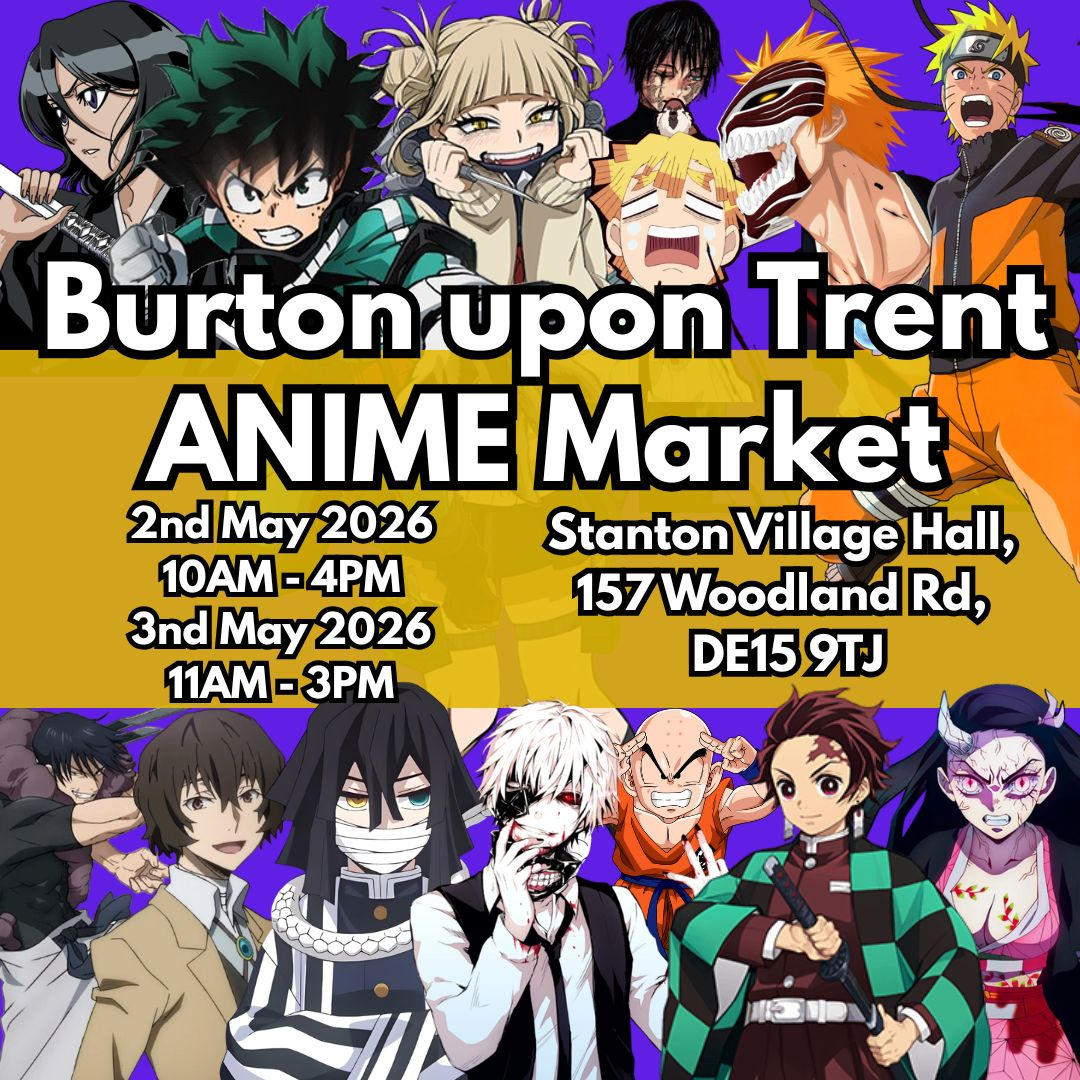
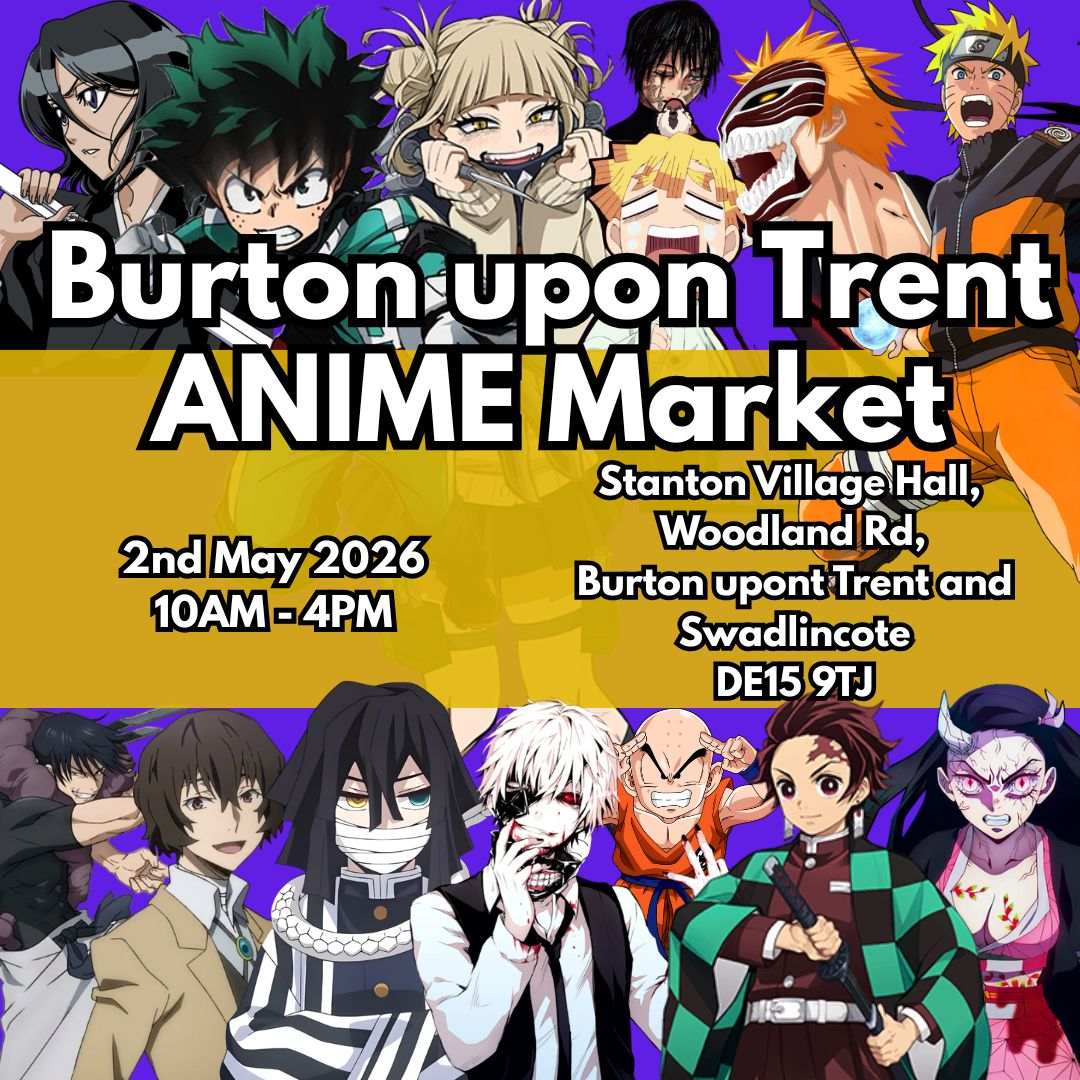
update

Changed region(s): [[0.0306, 0.1833, 1.0, 0.6722]]

diff --git a/src/data/eventData.js b/src/data/eventData.js
@@ -218,8 +218,7 @@ export const eventsData = {
       city: 'burtonupontrent',
       title: "Anime Market Burton Upon Trent 2026",
       date: "2026-05-02",
-      endDate: "2026-05-03",
-      time: "Sat 2 May: 10:00 AM - 4:00 PM; Sun 3 May: 11:00 AM - 3:00 PM",
+      time: "Sat 2 May: 10:00 AM - 4:00 PM",
       image: burtonupontrentmarket2026,
       status: 'upcoming',
       highlights: ["Anime Market", "Merchandise Market"],
@@ -234,6 +233,7 @@ export const eventsData = {
       },
       description: "Join us for an exciting anime market in Burton Upon Trent! Immerse yourself in a one a kind shopping experience with a variety of merchandise.",
       announcements: [
+        "AniArchive: We are sorry to inform you that the Sunday 3rd May 2026 market has been cancelled due to unforeseen circumstances. Emails have been sent to all affected ticket holders please reach out to us if you have any questions.",
         "Tickets on sale now!",
       ],
       socialMedia: {
